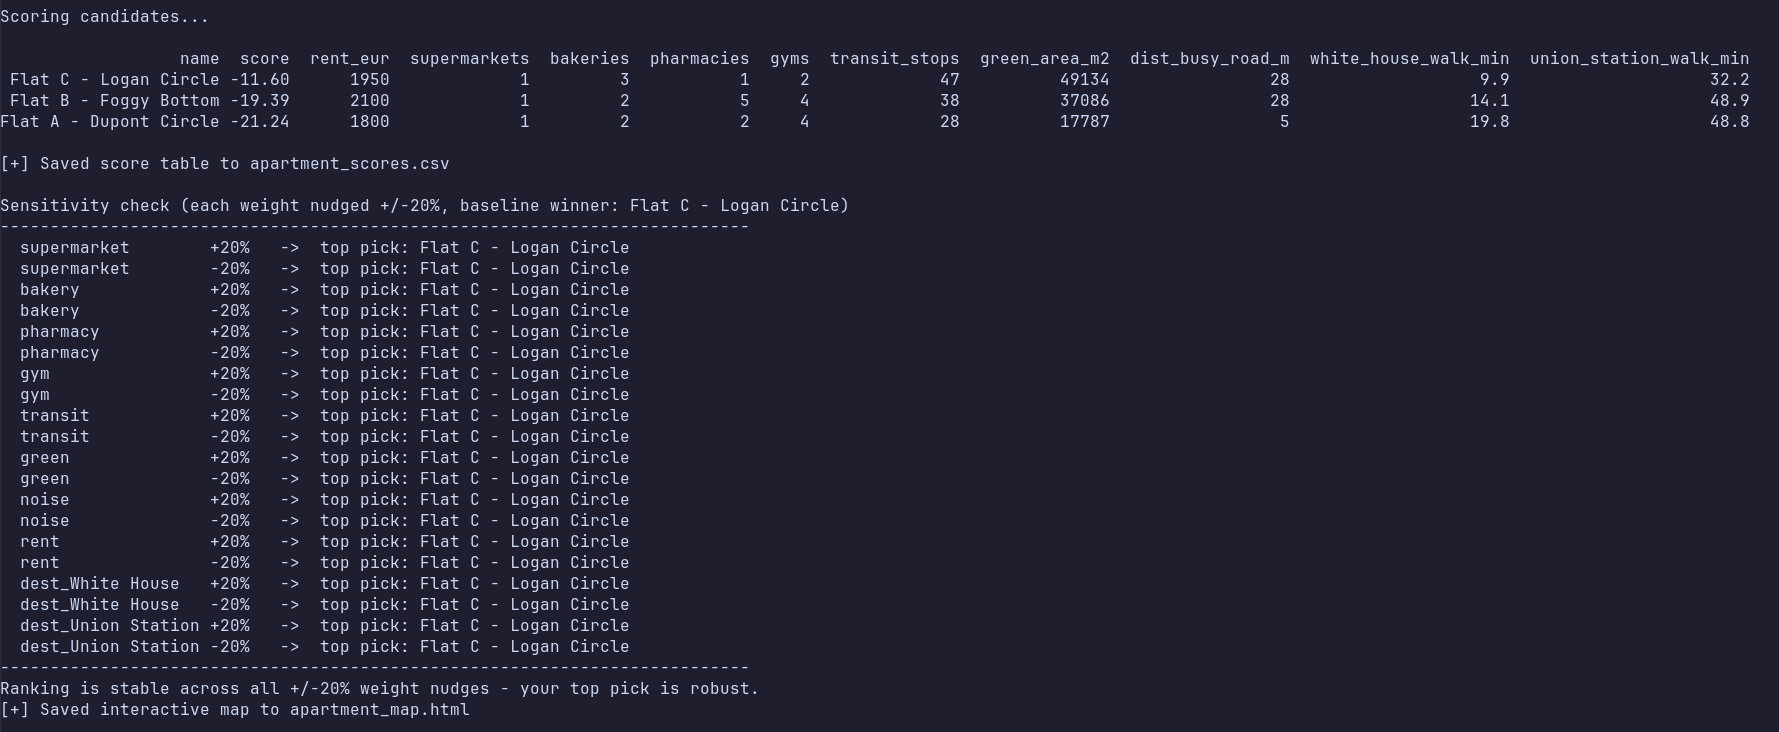
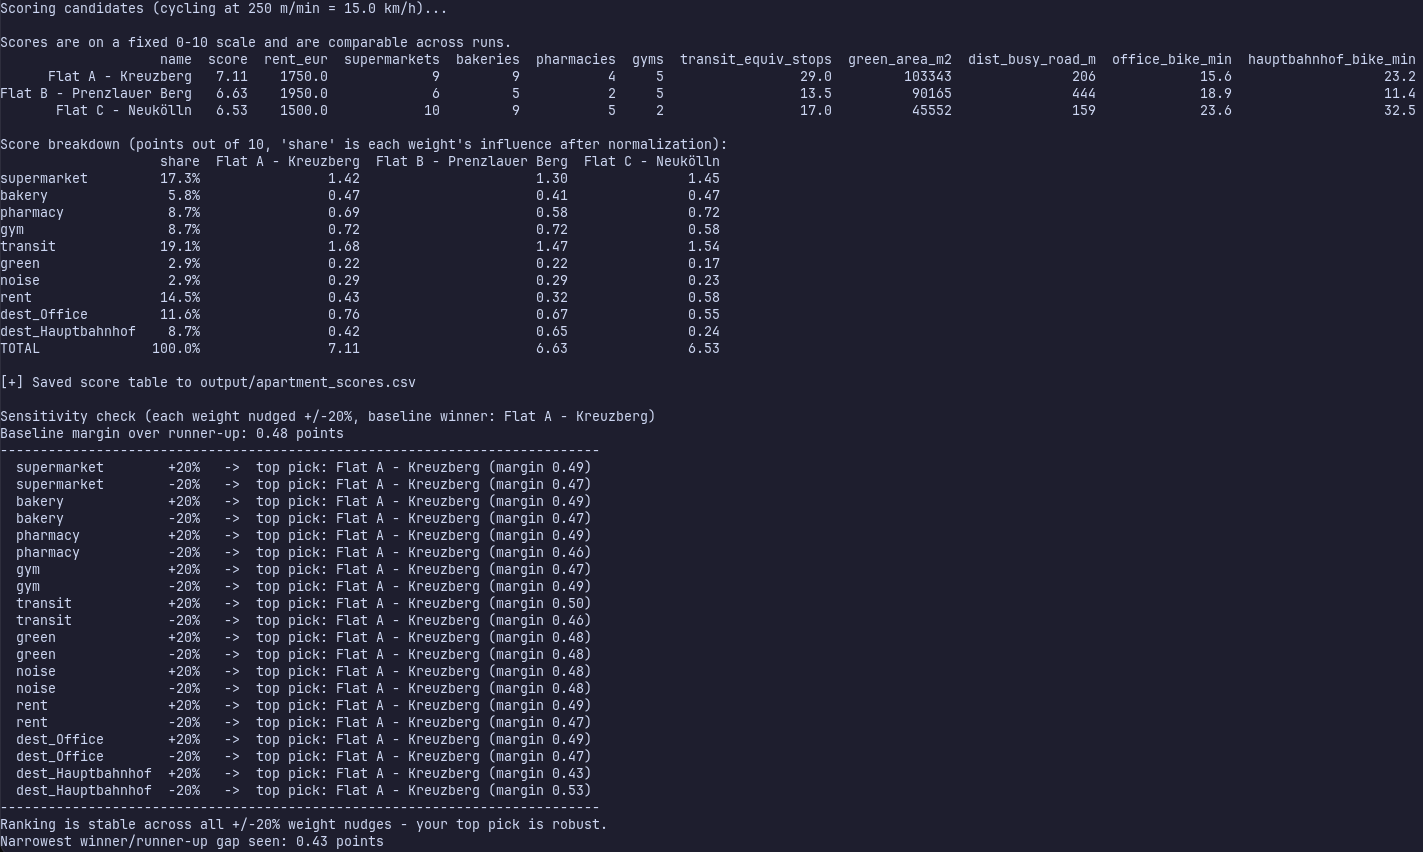
Feat: promote the demo config from Washington DC to central Berlin
The DC demo understated the tool by roughly 5x on amenity density: the
same 500 m radius that finds 9 supermarkets and 9 bakeries in Kreuzberg
found 1 and 3 in central Washington. That is the same OSM survey-density
effect DESIGN.md records as Washington's 4.67x in the Overture comparison.

Both destinations cycle, deliberately. Berlin districts are 44-86 minutes
apart on foot, so a walked demo prints 0.00 against the 45-minute cap for
most candidates and reads as broken; by bike they land at 11-33 minutes.
It also means one street network downloaded rather than two.

Ships no photos. Commons has essentially one usable freely-licensed flat
photo; the large Berlin Mietshaus series is CC BY-SA, whose attribution
would travel inside every generated report. The overview shows the score
dial instead, so test_gui sets its own photo rather than borrowing the
demo's.

Screenshots regenerated from the new demo. The old ones predated
normalization and showed negative scores directly above the README's
claim that the 0-10 scale is real.

Changed region(s): [[0.0, 0.0, 1.0, 1.0], [0.402, 0.4809, 0.4638, 0.5109]]

diff --git a/src/flatscorer/config.py b/src/flatscorer/config.py
@@ -36,43 +36,54 @@ from .scoring import (
 )
 from .spatial import DEFAULT_MAX_BBOX_SPAN_KM
 
-# Default configuration template (Generic demo using Washington, DC landmarks)
+# Default configuration template (generic demo using central Berlin).
+#
+# Berlin rather than a US city because OSM tagging density decides what this
+# demo appears to be worth: the same 500 m radius that finds 9 supermarkets and
+# 9 bakeries in Kreuzberg finds 1 and 3 in central Washington, so the DC demo
+# this replaced understated every amenity term by roughly 5x. See DESIGN.md on
+# the four-city comparison - that is a property of the survey, not of the city.
+#
+# No candidate carries an `image`. Commons has essentially one freely-licensed
+# flat photo worth shipping (the rest of the Berlin housing series is CC BY-SA,
+# which would send an attribution obligation along inside every generated
+# report), so the demo shows the score dial that stands in for a missing photo.
+# The field itself is documented in the README and exercised by the tests.
 DEFAULT_CONFIG = {
     "candidates": [
         {
-            "name": "Flat A - Dupont Circle",
-            "address": "1500 Connecticut Ave NW, Washington, DC 20036, USA",
-            "rent": 1800,
-            # Carol M. Highsmith, Library of Congress - public domain, so the
-            # demo can ship it and a screenshot of the report can be published.
-            # Flat B deliberately has none, so the demo shows both a photo panel
-            # and the score dial that replaces it.
-            "image": "https://commons.wikimedia.org/wiki/Special:FilePath/Row_houses%2C_16th_near_Q_St.%2C_NW%2C_Washington%2C_D.C_LCCN2010641449.tif?width=1000"
+            "name": "Flat A - Kreuzberg",
+            "address": "Oranienstraße 25, 10999 Berlin, Germany",
+            "rent": 1750
         },
         {
-            "name": "Flat B - Foggy Bottom",
-            "address": "2100 Pennsylvania Avenue NW, Washington, DC 20037, USA",
-            "rent": 2100
+            "name": "Flat B - Prenzlauer Berg",
+            "address": "Kastanienallee 49, 10119 Berlin, Germany",
+            "rent": 1950
         },
         {
-            "name": "Flat C - Logan Circle",
-            "address": "1400 14th St NW, Washington, DC 20005, USA",
-            "rent": 1950,
-            "image": "https://commons.wikimedia.org/wiki/Special:FilePath/Row_houses_along_the_1500_block_of_Corcoran_St.%2C_NW%2C_Washington%2C_D.C_LCCN2010641272.tif?width=1000"
+            "name": "Flat C - Neukölln",
+            "address": "Weserstraße 42, 12045 Berlin, Germany",
+            "rent": 1500
         }
     ],
+    # Both cycled, and not for variety: Berlin districts are far enough apart
+    # that every one of these is 44-86 minutes on foot, so a walked demo would
+    # print 0.00 against the 45-minute cap for most candidates and read as a
+    # broken tool. By bike they land at 11-33 minutes. One mode also means one
+    # street network downloaded rather than two.
     "destinations": {
-        "White House": {
-            "address": "1600 Pennsylvania Ave NW, Washington, DC 20500, USA",
-            "weight": 0.15,
-            "mode": "walk",
-            "icon": "landmark",
+        "Office": {
+            "address": "Potsdamer Platz 1, 10785 Berlin, Germany",
+            "weight": 0.20,
+            "mode": "bike",
+            "icon": "briefcase",
             "color": "blue"
         },
-        "Union Station": {
-            "address": "50 Massachusetts Ave NE, Washington, DC 20002, USA",
+        "Hauptbahnhof": {
+            "address": "Europaplatz 1, 10557 Berlin, Germany",
             "weight": 0.15,
-            "mode": "walk",
+            "mode": "bike",
             "icon": "train",
             "color": "red"
         }

diff --git a/tests/test_gui.py b/tests/test_gui.py
@@ -358,8 +358,8 @@ def test_the_candidates_frame_always_offers_an_image_column():
 def test_a_config_with_no_images_leaves_the_image_column_editable():
     """Reindexing in a column nothing supplies gives it float64 dtype, and the
     editor refuses to edit a float as text - the exact shape that took the whole
-    page down for `url`. The demo config carries photos, so this has to load a
-    config without them rather than rely on the default."""
+    page down for `url`. Loads its own image-less config rather than relying on
+    the demo, which happens to ship without photos but need not stay that way."""
     from flatscorer.gui import state as gui_state
 
     app = fresh_app()
@@ -390,15 +390,19 @@ def test_a_photo_typed_into_the_editor_reaches_the_built_config():
 def test_a_candidate_with_no_photo_carries_no_image_key_at_all():
     """A flat with no photo must round-trip exactly as it did before the field.
 
-    The demo config gives Flat A and Flat C a photo and deliberately leaves Flat
-    B without one, so the built config has to show both shapes.
+    The demo config ships no photos at all, so this puts one on the first flat
+    to get both shapes into a single built config - which is the case that
+    matters, since a column only some rows supply is what broke `url`.
     """
-    candidates = build_config_from(fresh_app())["candidates"]
+    app = fresh_app()
+    edit_cell(app, 0, "image", "https://example.com/photo.jpg")
+    app.run()
 
-    assert [c["name"] for c in candidates if "image" in c] == [
-        "Flat A - Dupont Circle", "Flat C - Logan Circle",
-    ]
+    candidates = build_config_from(app)["candidates"]
+
+    assert [c["name"] for c in candidates if "image" in c] == ["Flat A - Kreuzberg"]
     assert "image" not in candidates[1]
+    assert "image" not in candidates[2]
 
 
 def test_a_cleared_photo_cell_is_omitted_rather_than_exported_as_nan():

diff --git a/README.md b/README.md
@@ -94,8 +94,8 @@ installs the dependencies but not the package itself and `python -m flatscorer`
 won't resolve. Either install it as above, or point Python at the source tree for
 a one-off: `PYTHONPATH=src python -m flatscorer --config config.json`.
 
-Running without `--config` uses built-in demo data (Washington, DC) so you can
-try it immediately.
+Running without `--config` uses built-in demo data (three flats in central
+Berlin) so you can try it immediately.
 
 ## GUI
 
@@ -134,8 +134,9 @@ network..."), so a slow run reads as slow rather than as a hang.
   <img src="https://raw.githubusercontent.com/Aduneer/FlatScorer/main/assets/gui_preview.png" alt="FlatScorer Streamlit GUI" width="800"/>
 </p>
 
-<sub>The flat photos in the demo config and in the screenshots are by Carol M.
-Highsmith, from the Library of Congress, and are in the public domain.</sub>
+<sub>The demo config ships no flat photos, so each card shows the score dial that
+stands in for one. Point a candidate's `image` at a URL or a local file to get a
+photo panel there instead.</sub>
 
 ## How It Works
 
@@ -178,9 +179,10 @@ in both directions at once — and wrong invisibly, since it still produces a
 plausible number.
 
 The networks are downloaded lazily, one per mode your destinations actually
-mention. An all-walk config — every config written before this existed, and the
-shipped example — makes exactly one download, as it always did. Only a genuinely
-mixed config pays for a second.
+mention. A single-mode config makes exactly one download — that covers every
+config written before this existed, which walked everywhere, and the shipped
+demo, which cycles to both of its destinations. Only a genuinely mixed config
+pays for a second.
 
 Each mode has its own pace (`walking_speed_m_per_min`, `cycling_speed_m_per_min`)
 and its own column in the results: `office_bike_min` beside `supermarket_walk_min`,
@@ -332,7 +334,7 @@ Everything is driven by a single JSON file. Generate a template with
       // Photos you point this at stay yours to account for: listing photos are
       // usually the agency's copyright, and embedding one copies it into the
       // report — so treat a report containing them as a private document.
-      "image": "https://commons.wikimedia.org/wiki/Special:FilePath/Row_houses%2C_16th_near_Q_St.%2C_NW%2C_Washington%2C_D.C_LCCN2010641449.tif?width=1000"
+      "image": "https://www.example-listings.de/photos/12345.jpg"
     }
   ],
 
